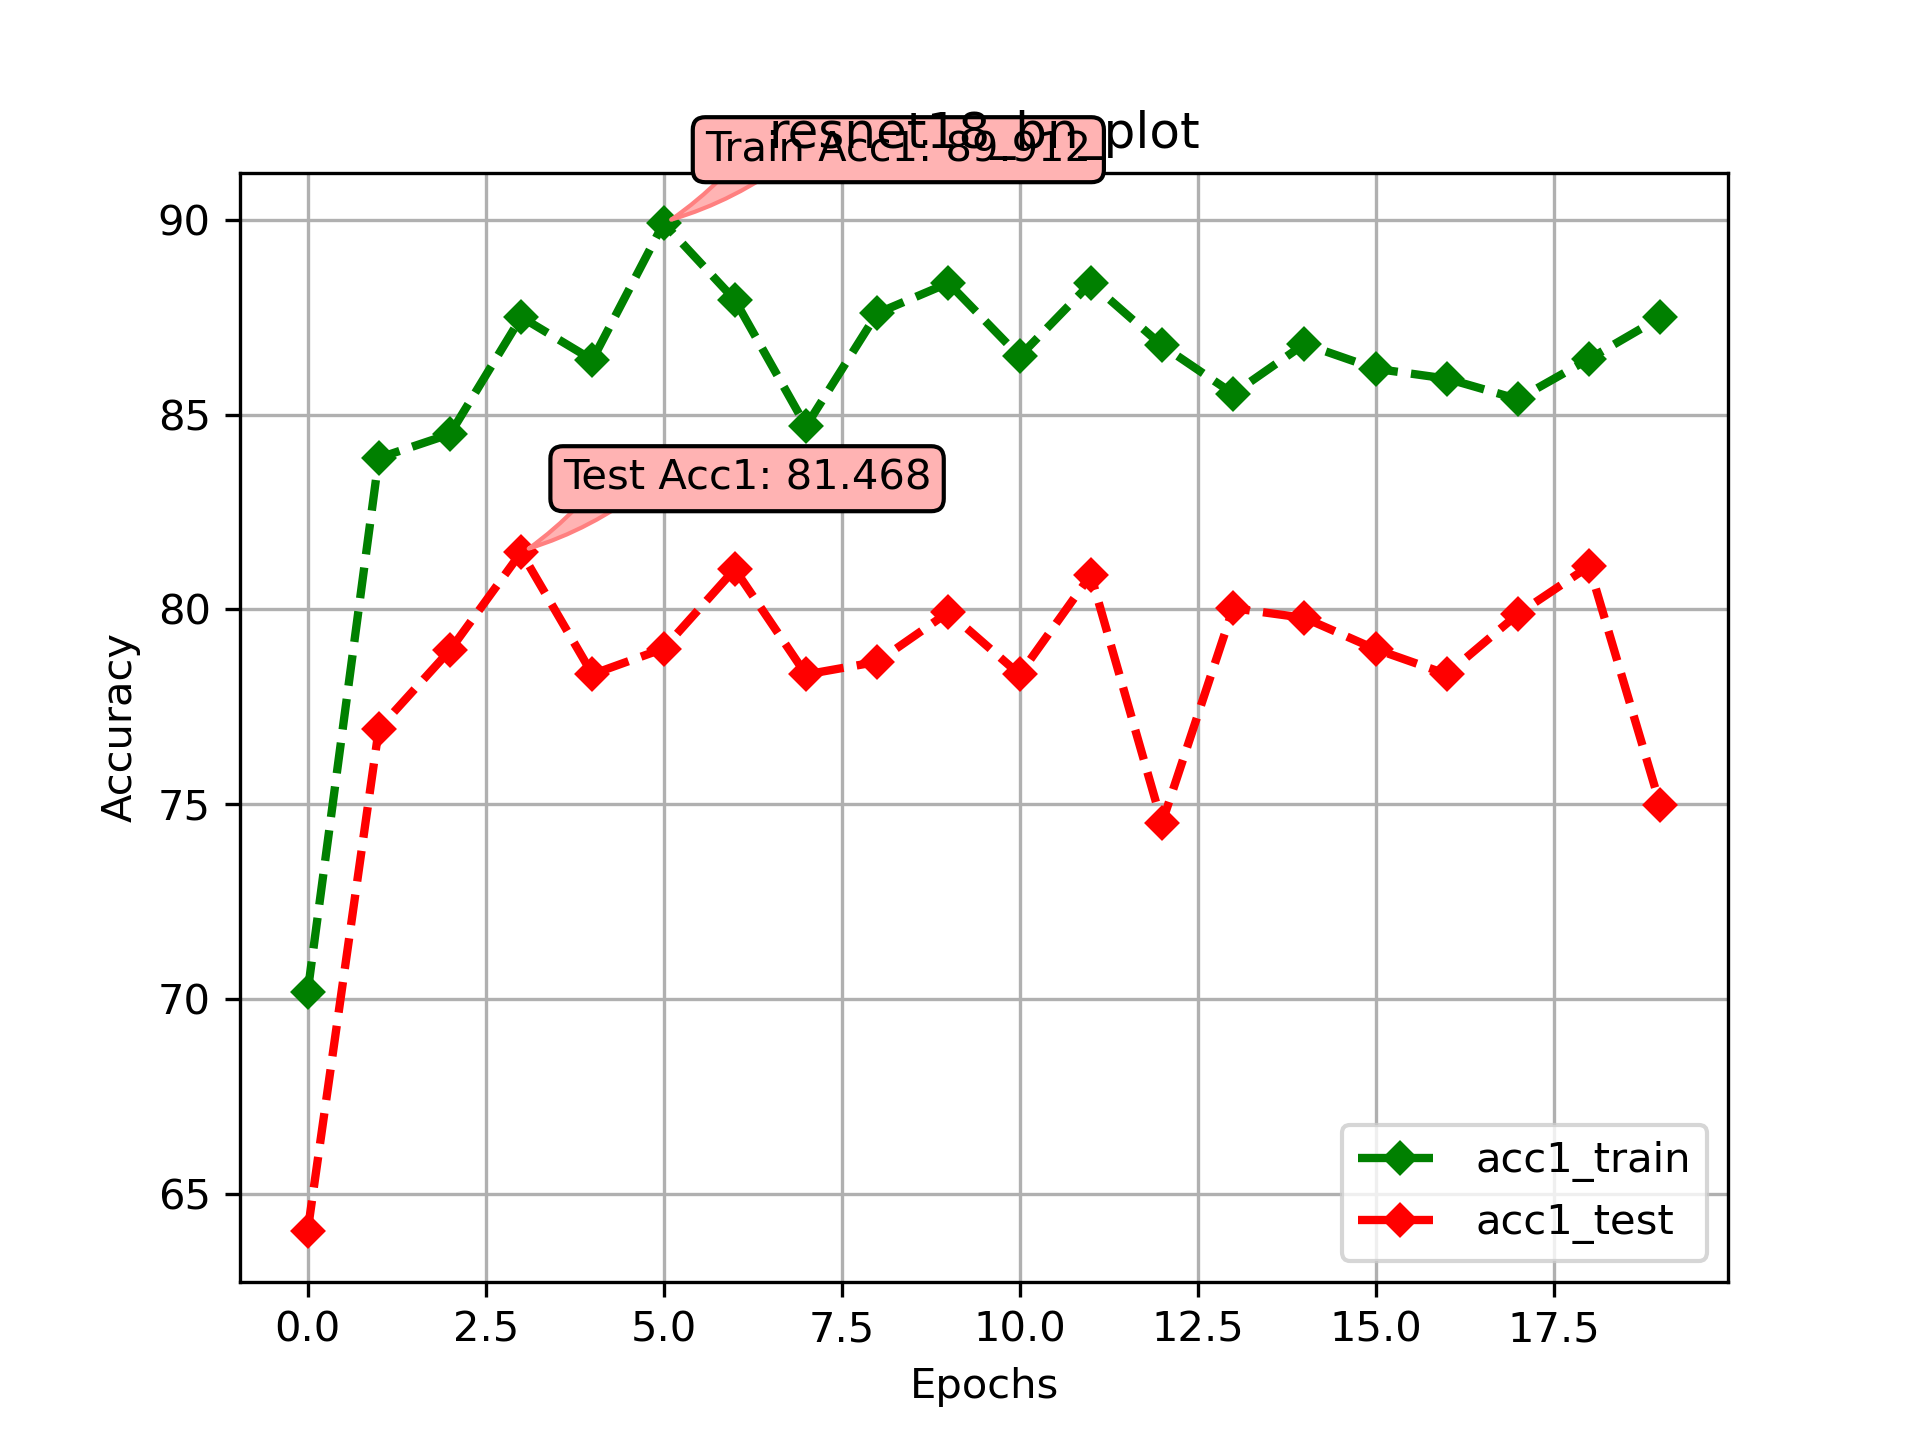
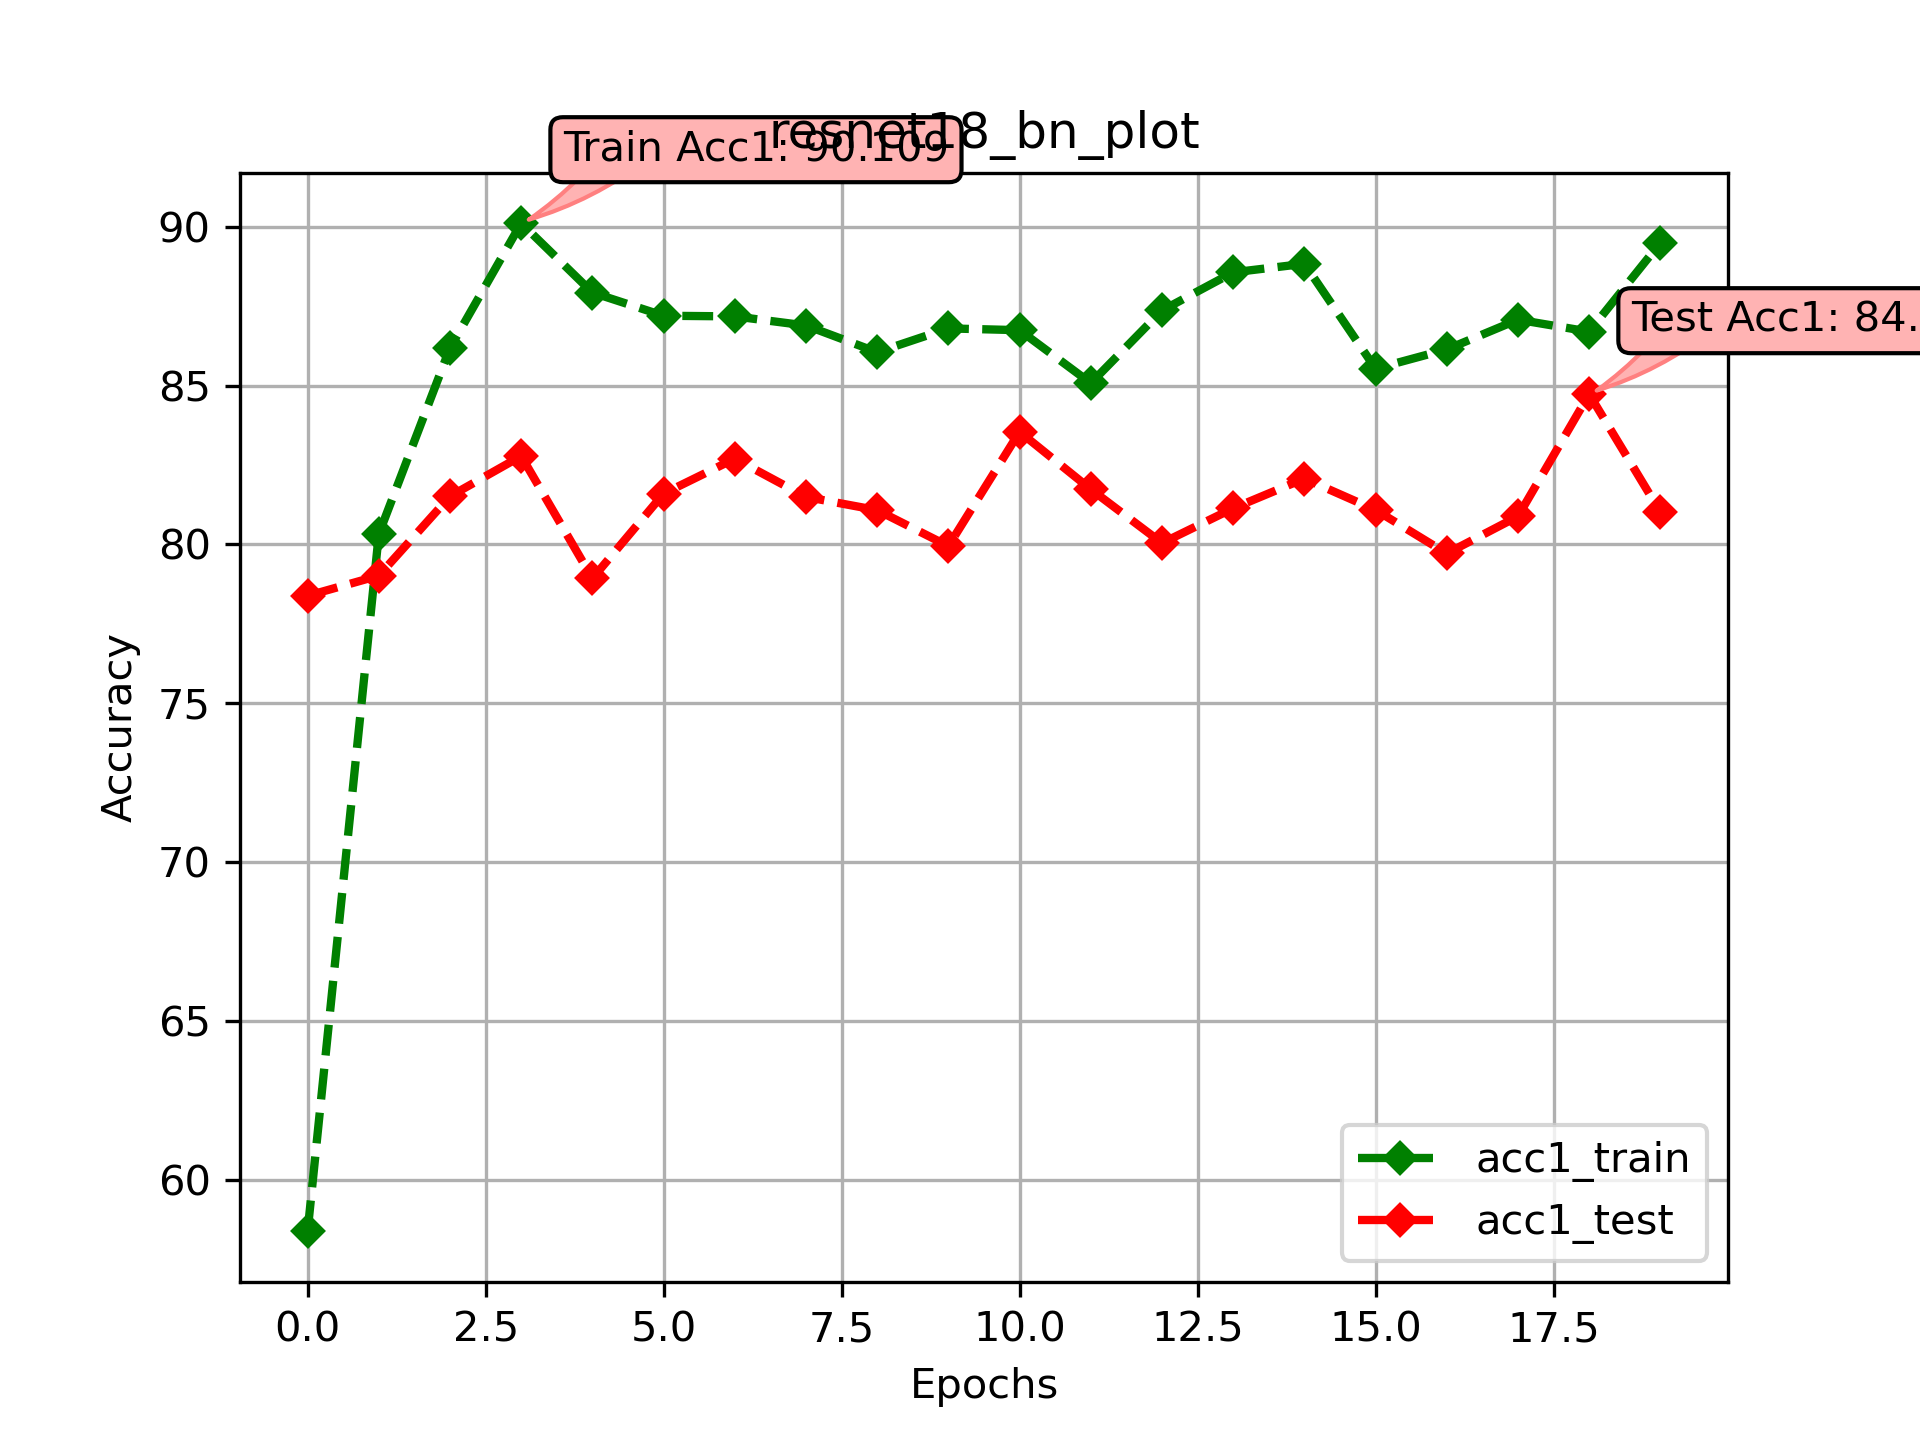
Retrained Resnet18_bn.

diff --git a/imc_main.py b/imc_main.py
@@ -39,7 +39,7 @@ random.seed(12)
 # =============================================================
 # SELECT: Model, Name, and test_only
 # =============================================================
-model_name = "resnet18_an"
+model_name = "resnet18_bn"
 model = resnet18(pretrained=False)
 # model_name = "resnet50_an"
 # model = resnet50(pretrained=False)
